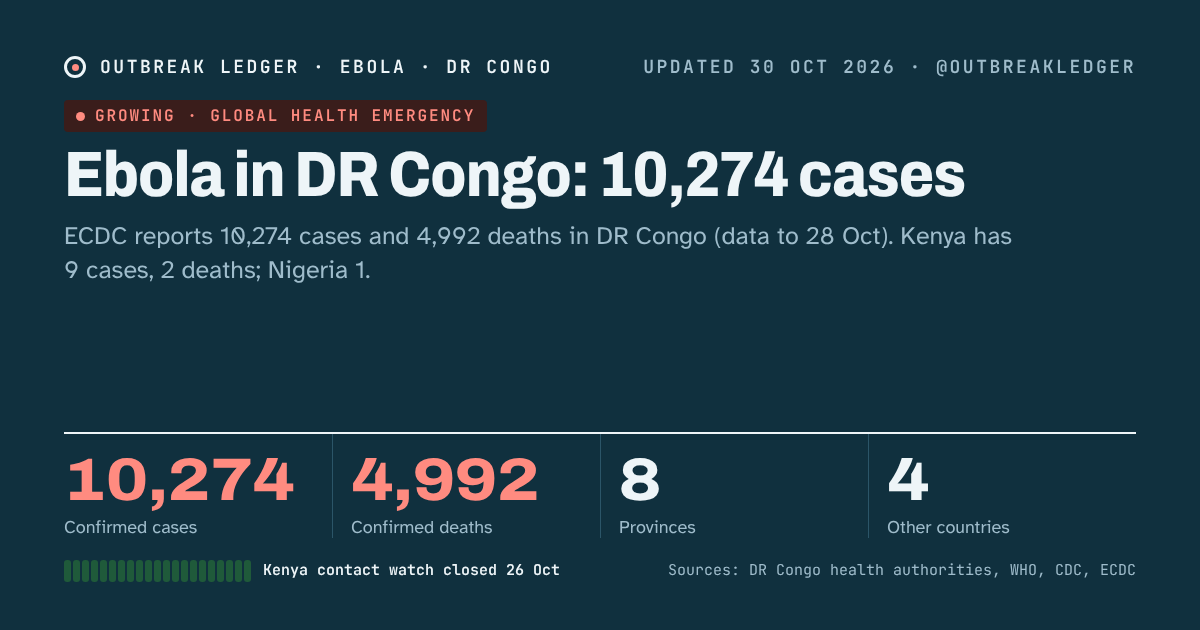
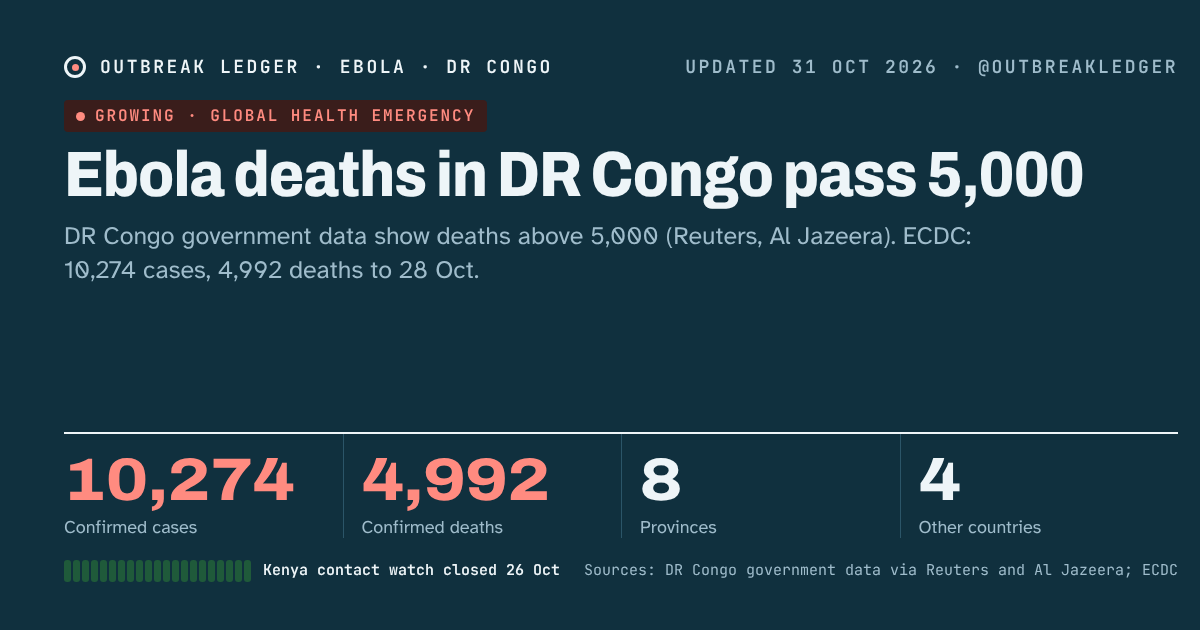
Trackers: Ebola DR Congo deaths pass 5,000 per government data (Reuters, Al Jazeera), Nigeria 54 contacts (NCDC); others checked, no change
Claude-Session: https://claude.ai/code/session_01DjK934MGj4uKY77RiACNyU

diff --git a/site/ebola/share/latest-post.md b/site/ebola/share/latest-post.md
@@ -1,5 +1,5 @@
-Ebola in DR Congo: ECDC reports 10,274 confirmed cases and 4,992 deaths (data to 28 Oct), up from 10,193 and 4,960 (data to 27 Oct). Kenya has 9 cases, 2 fatal; Nigeria 1.
+Ebola in DR Congo: government data show deaths have passed 5,000 (Reuters, Al Jazeera). ECDC counts 10,274 confirmed cases and 4,992 deaths (data to 28 Oct). Kenya has 9 cases, 2 fatal; Nigeria 1.
 
 https://nhlebe1.github.io/ai-scheduler-platform/ebola/
 
-Sources: ECDC, Ebola disease multi-country outbreak 2026 (data to 28 Oct); Kenya and Nigeria figures from Kenya health ministry and WHO.
+Sources: Reuters (30 Oct) and Al Jazeera (31 Oct) on DR Congo government data; ECDC, Ebola disease multi-country outbreak 2026 (data to 28 Oct); Kenya health ministry; WHO Africa.
